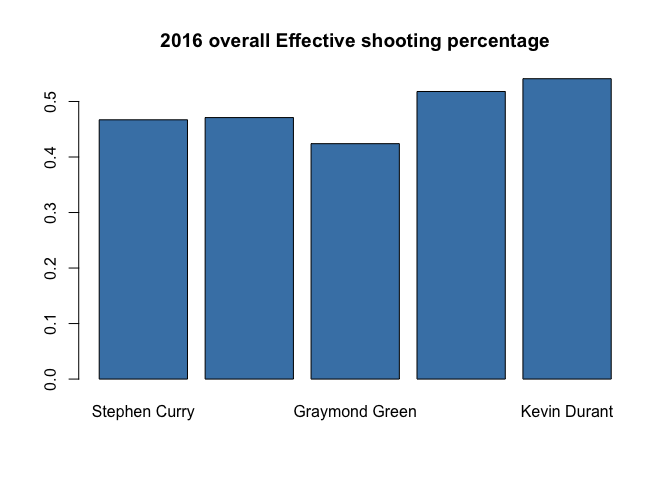
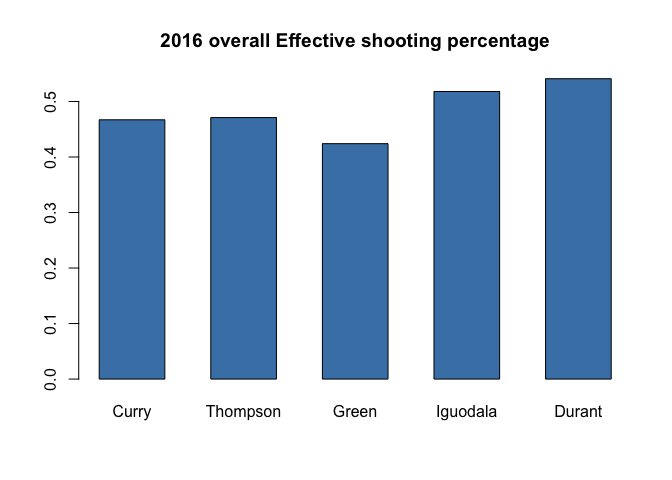
add a workout01 folder to hw-stat133

diff --git a/workout01/report/workout01-jiani-Song.md b/workout01/report/workout01-jiani-Song.md
@@ -122,8 +122,8 @@ Beginning of the end of the GSW dynasty?
 
 ``` r
 stat_2016 <- c(0.467,0.471,0.424,0.518,0.541)
-names(stat_2016)=c("Stephen Curry","Klay Thompson","Graymond Green","Andre Iguodala","Kevin Durant")
-barplot(stat_2016, main = "2016 overall Effective shooting percentage", col = "steel blue")
+names(stat_2016)=c("Curry","Thompson","Green","Iguodala","Durant")
+barplot(stat_2016, space = c(0.7,0.6),main = "2016 overall Effective shooting percentage", col = "steel blue")
 ```
 
 ![](workout01-jiani-Song_files/figure-markdown_github/unnamed-chunk-4-1.png)
